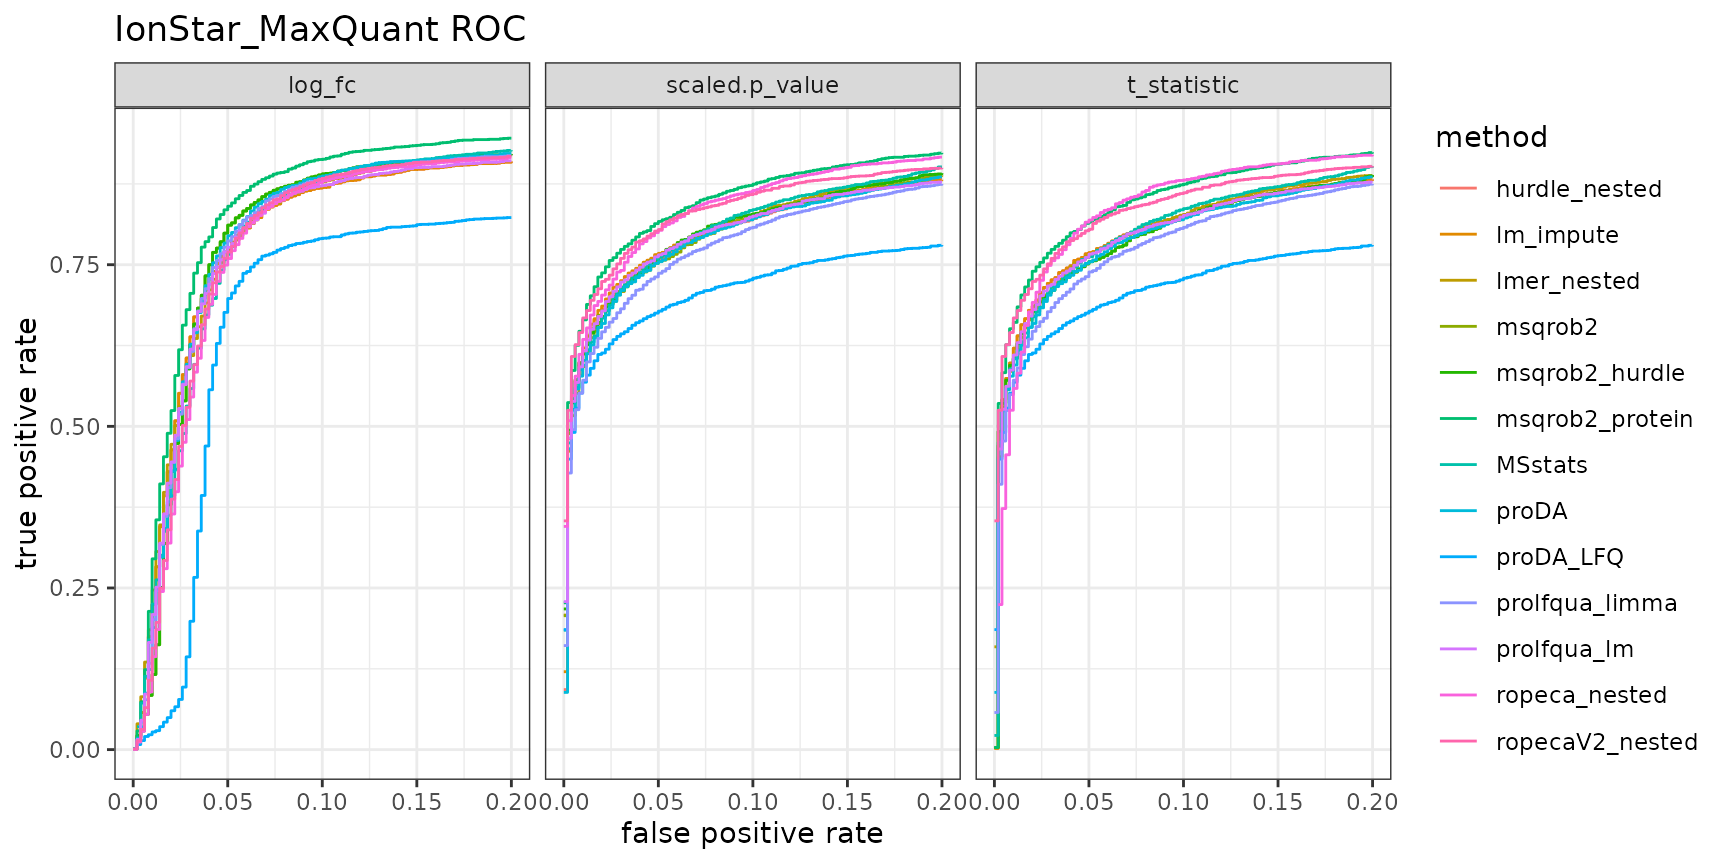
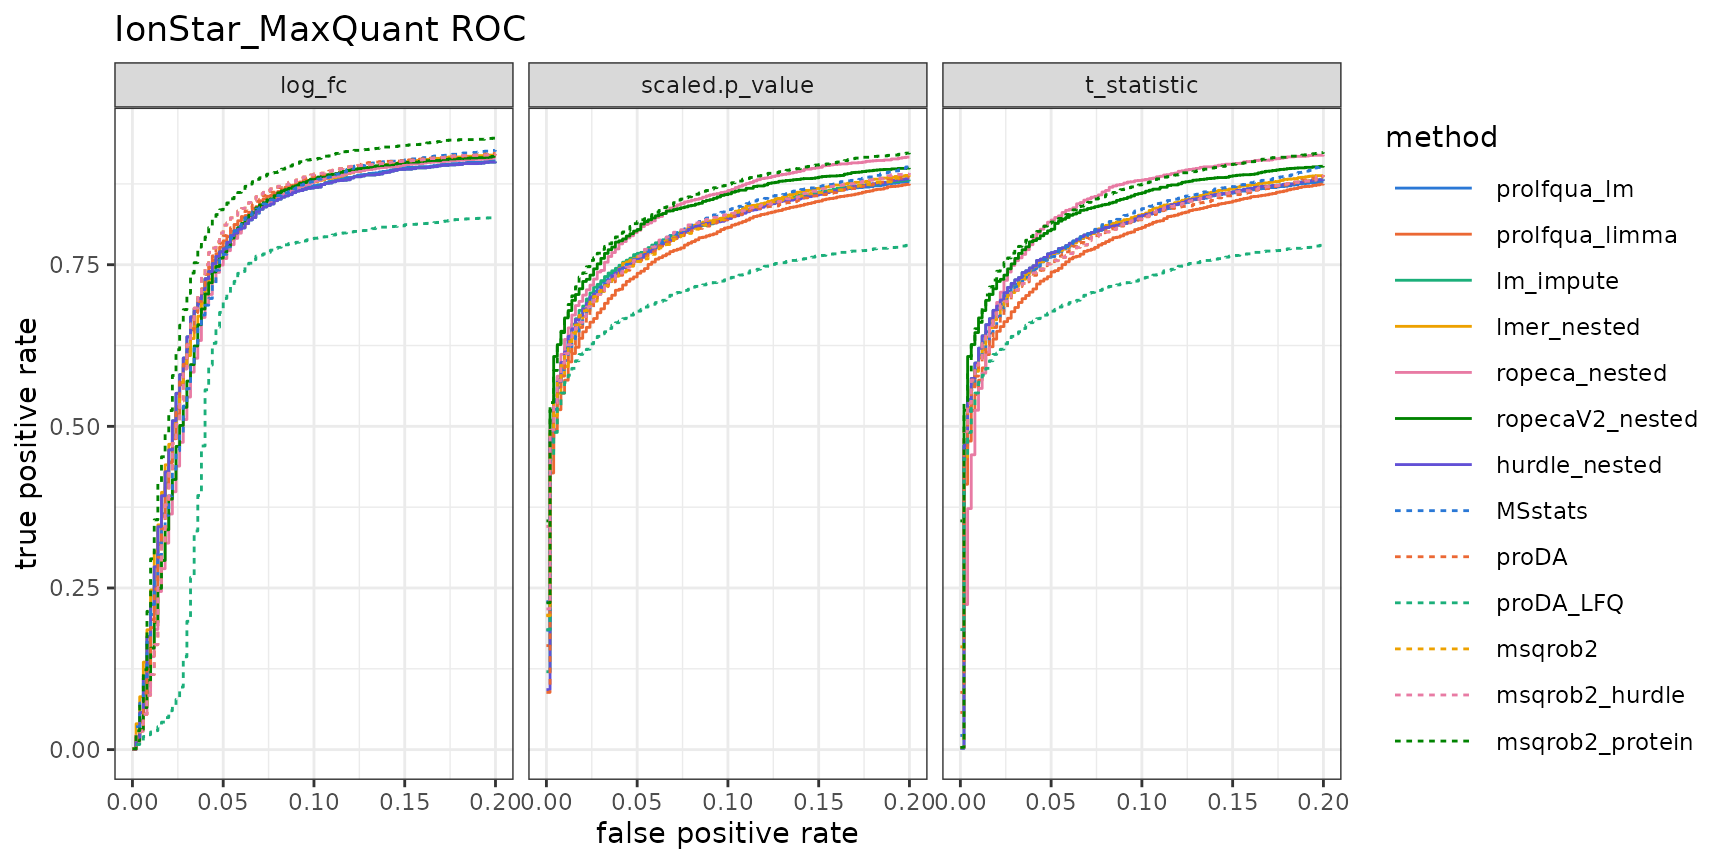
Deploying to gh-pages from @ prolfqua/prolfquabenchmark@dbc459379f43b898aa535ffe0694e2d73aa95f64 🚀

diff --git a/news/index.html b/news/index.html
@@ -63,7 +63,7 @@
     <div class="section level2">
 <h2 class="page-header" data-toc-text="0.3.4" id="prolfquabenchmark-034">prolfquabenchmark 0.3.4<a class="anchor" aria-label="anchor" href="#prolfquabenchmark-034"></a></h2>
 <ul><li><p>The benchmarks run in a Snakemake pipeline (<code>workflow/Snakefile</code>, <code>config/config.yaml</code>; <code>make benchmark</code>) instead of in the vignettes. Each dataset (IonStar MaxQuant peptides, IonStar FragPipe MSstats.csv and combined_protein.tsv, CPTAC study 6) is prepared once, every method (prolfqua facades, MSstats, proDA, msqrob2) is fitted to every dataset that provides its input (peptides, proteins, MSstats’ feature table or MaxQuant LFQ intensities) and scored, and the results are exported to <code>inst/extdata</code>. Snakemake comes from a uv environment (<code>pyproject.toml</code>).</p></li>
-<li><p>New vignette <code>Benchmark_results</code>: per dataset the scores of every method, ROC curves up to a false positive rate of 0.2 and the false discovery proportion against the nominal FDR. The analysis vignettes <code>Benchmark_prolfqua</code>, <code>Benchmark_MSStats</code>, <code>Benchmark_proDA</code>, <code>Benchmark_msqrob2</code>, <code>Benchmark_hurdle</code> and <code>Benchmark_ropeca</code> and the studies <code>Benchmark_null_split</code>, <code>Benchmark_pipeline_demo</code>, <code>Benchmark_Model_IonStar_With2Factors</code> and <code>SqueezeVar_comparison</code> are removed.</p></li>
+<li><p>New vignette <code>Benchmark_results</code>: per dataset the scores of every method, ROC curves up to a false positive rate of 0.2, the number of proteins tested against the partial AUC up to a false positive rate of 0.05 (<code>pAUC_5</code>, new column of <code>benchmark_scores.tsv</code>; as in ProteoBench) and the false discovery proportion against the nominal FDR. Solid lines and circles mark the prolfqua models, dashed lines and triangles the external tools; a method has the same colour in every plot. The analysis vignettes <code>Benchmark_prolfqua</code>, <code>Benchmark_MSStats</code>, <code>Benchmark_proDA</code>, <code>Benchmark_msqrob2</code>, <code>Benchmark_hurdle</code> and <code>Benchmark_ropeca</code> and the studies <code>Benchmark_null_split</code>, <code>Benchmark_pipeline_demo</code>, <code>Benchmark_Model_IonStar_With2Factors</code> and <code>SqueezeVar_comparison</code> are removed.</p></li>
 <li><p>New vignette <code>Score_history</code> with the scores and step timings of each recorded prolfqua release: one table per dataset with a row per model and release, MSstats, proDA and msqrob2 with their latest scores only, the changes between consecutive releases above 0.5 points (AUC, pAUC, AP) or in counts, and the elapsed time of transform, aggregate, lm fit, contrasts and the lm, limma, lm_impute and rlm facades. <code>make score-history</code> appends the pipeline’s scores and timings for the installed prolfqua (<code>REPLACE=1</code> reruns a recorded version). The history starts with prolfqua 1.6.2 and 1.9.0, rerun with the benchmark vignettes of their time (<code>inst/scripts/prefill_score_history.sh</code>), and was relabelled to the pipeline’s dataset and method names with the model level (<code>inst/scripts/migrate_score_history.R</code>).</p></li>
 <li><p>The hurdle model is benchmarked as prolfqua’s <code>hurdle_nested</code> facade; the hand-built variants <code>hurdle_binomial</code>, <code>hurdle_binomial_firth_unbound</code> and <code>hurdle_binomial_firth_df4</code> are dropped (Firth against plain binomial detection and msqrob2’s combination rule changed the scores by less than 0.2 points; without the dispersion bound the ranking was worse). New method <code>msqrob2_protein</code>: msqrob2 fitted to the prepared proteins without its detection model, also on the protein-level FragPipe table.</p></li>
 <li><p>Each dataset and method has one name: the MaxQuant results formerly under <code>IonStar_MQ</code>, <code>IonStar_MQ_LFQ</code> and <code>IonStar_MQ_medpolish</code> are <code>IonStar_MaxQuant</code> (proDA on LFQ intensities is <code>proDA_LFQ</code>), and the duplicate <code>limma</code> of the ROPECA benchmark is dropped (same model as <code>prolfqua_limma</code>).</p></li>

diff --git a/articles/Benchmark_results.html b/articles/Benchmark_results.html
@@ -111,6 +111,13 @@ fold change (<code>log_fc</code>), t statistic
 on peptides)</li>
 <li>FDP vs FDR: the false discovery proportion at each nominal FDR; on
 the diagonal the FDR is calibrated</li>
+<li>Proteins tested vs pAUC_5 (as in ProteoBench): each method scores
+only the proteins it tests, so the plot shows the number of proteins
+tested per contrast against the partial AUC up to a false positive rate
+of 0.05; best is top right</li>
+<li>Line type and point shape: solid lines and circles for the prolfqua
+models, dashed lines and triangles for the external tools; a method has
+the same colour in every plot</li>
 </ul>
 <div class="section level2">
 <h2 id="methods">Methods<a class="anchor" aria-label="anchor" href="#methods"></a>
@@ -913,7 +920,7 @@ protein
 </tr>
 </tbody>
 </table>
-<p><img src="Benchmark_results_files/figure-html/datasets-1.png" class="r-plt" alt="" width="864"><img src="Benchmark_results_files/figure-html/datasets-2.png" class="r-plt" alt="" width="864"></p>
+<p><img src="Benchmark_results_files/figure-html/datasets-1.png" class="r-plt" alt="" width="864"><img src="Benchmark_results_files/figure-html/datasets-2.png" class="r-plt" alt="" width="864"><img src="Benchmark_results_files/figure-html/datasets-3.png" class="r-plt" alt="" width="864"></p>
 </div>
 <div class="section level2">
 <h2 id="ionstar_fragpipe_msstats">IonStar_FragPipe_MSstats<a class="anchor" aria-label="anchor" href="#ionstar_fragpipe_msstats"></a>
@@ -1266,7 +1273,7 @@ protein
 </tr>
 </tbody>
 </table>
-<p><img src="Benchmark_results_files/figure-html/datasets-3.png" class="r-plt" alt="" width="864"><img src="Benchmark_results_files/figure-html/datasets-4.png" class="r-plt" alt="" width="864"></p>
+<p><img src="Benchmark_results_files/figure-html/datasets-4.png" class="r-plt" alt="" width="864"><img src="Benchmark_results_files/figure-html/datasets-5.png" class="r-plt" alt="" width="864"><img src="Benchmark_results_files/figure-html/datasets-6.png" class="r-plt" alt="" width="864"></p>
 </div>
 <div class="section level2">
 <h2 id="ionstar_fragpipe_protein">IonStar_FragPipe_protein<a class="anchor" aria-label="anchor" href="#ionstar_fragpipe_protein"></a>
@@ -1437,7 +1444,7 @@ protein
 </tr>
 </tbody>
 </table>
-<p><img src="Benchmark_results_files/figure-html/datasets-5.png" class="r-plt" alt="" width="864"><img src="Benchmark_results_files/figure-html/datasets-6.png" class="r-plt" alt="" width="864"></p>
+<p><img src="Benchmark_results_files/figure-html/datasets-7.png" class="r-plt" alt="" width="864"><img src="Benchmark_results_files/figure-html/datasets-8.png" class="r-plt" alt="" width="864"><img src="Benchmark_results_files/figure-html/datasets-9.png" class="r-plt" alt="" width="864"></p>
 </div>
 <div class="section level2">
 <h2 id="cptac_maxquant">CPTAC_MaxQuant<a class="anchor" aria-label="anchor" href="#cptac_maxquant"></a>
@@ -1764,7 +1771,7 @@ protein
 </tr>
 </tbody>
 </table>
-<p><img src="Benchmark_results_files/figure-html/datasets-7.png" class="r-plt" alt="" width="864"><img src="Benchmark_results_files/figure-html/datasets-8.png" class="r-plt" alt="" width="864"></p>
+<p><img src="Benchmark_results_files/figure-html/datasets-10.png" class="r-plt" alt="" width="864"><img src="Benchmark_results_files/figure-html/datasets-11.png" class="r-plt" alt="" width="864"><img src="Benchmark_results_files/figure-html/datasets-12.png" class="r-plt" alt="" width="864"></p>
 </div>
   </div>
 
